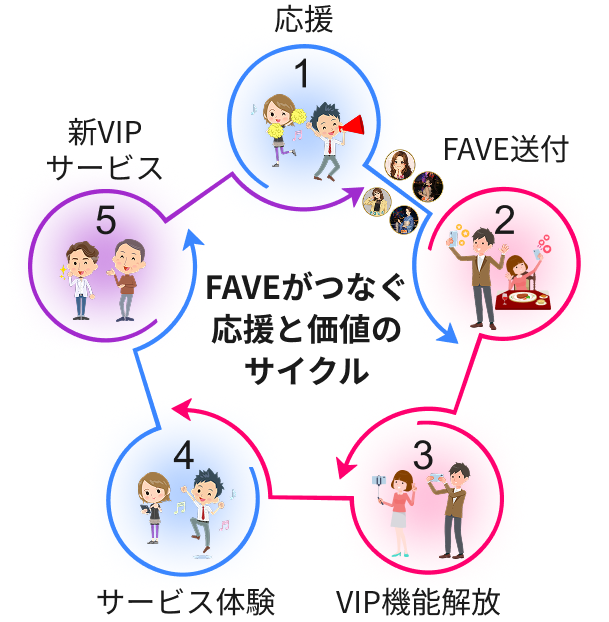
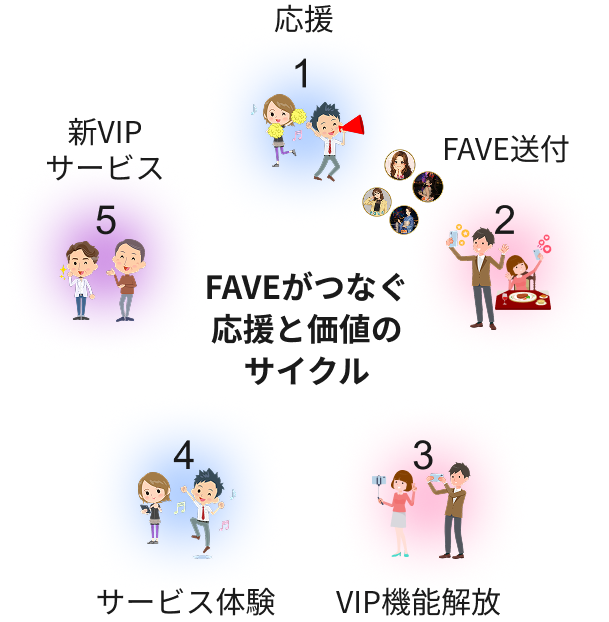
a

diff --git a/src/app/(index)/components/Flow.tsx b/src/app/(index)/components/Flow.tsx
@@ -1,5 +1,6 @@
 "use client";
 
+import SvgMotionPath from "@/components/SvgMotionPath";
 import useScrollAnimations from "@/hooks/useScrollAnimations";
 
 const Flow = () => {
@@ -8,59 +9,68 @@ const Flow = () => {
   return (
     <section
       ref={ref}
-      className="relative overflow-hidden px-4 sm:pb-[120px] pb-20"
+      className="relative overflow-hidden sm:pb-[120px] pb-20"
     >
         <div className="relative">
-            <div className="flex justify-center">
+            <div className="flex justify-center px-4">
                 <h3 className="fade-up sm:text-[36px] text-[22px] font-bold text-center bg-[linear-gradient(0deg,_#ED62C7_0%,_#ED62C7_35.55%,_rgba(237,_98,_199,_0.00)_35.56%)] px-2">FAVEエコシステムの 循環モデル</h3>
             </div>
-            <div className="fade-up flex justify-center items-center mt-10">
-                <img src="/assets/images/flow-img.png" alt="" />
+            <div className=" max-sm:max-w-[350px] mx-auto">
+                <div className="fade-up flex justify-center items-center mt-10 relative">
+                    <img src="/assets/images/flow-img.png" alt="" />
+                    <SvgMotionPath color="#A22ACD" className="absolute rotate-[-72deg] w-[38.5%] left-[11%] top-[-1%] sm:top-[16%]" />
+                    <SvgMotionPath color="#3A86FF" className="absolute w-[38.5%] left-[37.5%] top-[-10.5%] sm:top-[7%]" />
+                    <SvgMotionPath color="#FF006E" className="absolute rotate-[73deg] w-[38.5%] left-[54.5%] top-[11%] sm:top-[28%]" />
+                    <SvgMotionPath color="#FF006E" className="absolute rotate-[145deg] w-[38.5%] left-[38.5%] top-[33%] sm:top-[50%]" />
+                    <SvgMotionPath color="#3A86FF" className="absolute rotate-[216deg] w-[38.5%] left-[12%] top-[26%] sm:top-[43%]" />
+                </div>
             </div>
-            <div className="sm:px-[14px] sm:mt-[60px] mt-10">
-                {[
-                    {
-                        number: '1',
-                        title: '【ファン】',
-                        content: <>FAVEを購入してFAVERに投げ銭</>,
-                        color: '#3A86FF'
-                    },
-                    {
-                        number: '2',
-                        title: '【FAVER】',
-                        content: <>運営にFAVE送付&VIP機能をアンロック</>,
-                        color: '#FF006E'
-                    },
-                    {
-                        number: '3',
-                        title: '【FAVER】',
-                        content: <>ファンにVIPサービス・コンテンツを提供</>,
-                        color: '#FF006E'
-                    },
-                    {
-                        number: '4',
-                        title: '【ファン】',
-                        content: <>VIPサービス・コンテンツを体験</>,
-                        color: '#3A86FF'
-                    },
-                    {
-                        number: '5',
-                        title: '【運　営】',
-                        content: <>新たなVIPサービスを企画・ローンチ</>,
-                        color: '#A22ACD'
-                    }
-                ].map((item,index) => (
-                    <div className="fade-up flex sm:text-[32px] text-[18px] p-4 md:p-5 gap-5 border-b border-gray-500" key={index}>
-                        <p className="flex items-center font-bold sm:w-[192px]">
-                            <span className="">{item.number}.</span>
-                            <span className="relative flex items-center justify-center" style={{color: item.color}}>
-                                <span className="absolute block filter blur-[35px] sm:size-[68px] size-10" style={{backgroundColor: item.color}}></span>
-                                {item.title}
-                            </span>
-                        </p>
-                        <p className="flex-1">{item.content}</p>
-                    </div>
-                ))}
+            <div className="px-4">
+                <div className="sm:px-[14px] sm:mt-[60px] mt-10">
+                    {[
+                        {
+                            number: '1',
+                            title: '【ファン】',
+                            content: <>FAVEを購入してFAVERに投げ銭</>,
+                            color: '#3A86FF'
+                        },
+                        {
+                            number: '2',
+                            title: '【FAVER】',
+                            content: <>運営にFAVE送付&VIP機能をアンロック</>,
+                            color: '#FF006E'
+                        },
+                        {
+                            number: '3',
+                            title: '【FAVER】',
+                            content: <>ファンにVIPサービス・コンテンツを提供</>,
+                            color: '#FF006E'
+                        },
+                        {
+                            number: '4',
+                            title: '【ファン】',
+                            content: <>VIPサービス・コンテンツを体験</>,
+                            color: '#3A86FF'
+                        },
+                        {
+                            number: '5',
+                            title: '【運　営】',
+                            content: <>新たなVIPサービスを企画・ローンチ</>,
+                            color: '#A22ACD'
+                        }
+                    ].map((item,index) => (
+                        <div className="fade-up flex sm:text-[32px] text-[18px] p-4 md:p-5 gap-5 border-b border-gray-500" key={index}>
+                            <p className="flex items-center font-bold sm:w-[192px]">
+                                <span className="">{item.number}.</span>
+                                <span className="relative flex items-center justify-center" style={{color: item.color}}>
+                                    <span className="absolute block filter blur-[35px] sm:size-[68px] size-10" style={{backgroundColor: item.color}}></span>
+                                    {item.title}
+                                </span>
+                            </p>
+                            <p className="flex-1">{item.content}</p>
+                        </div>
+                    ))}
+                </div>
             </div>
         </div>
     </section>

diff --git a/src/components/SvgMotionPath.tsx b/src/components/SvgMotionPath.tsx
@@ -1,0 +1,72 @@
+import { useEffect, useRef } from "react";
+import { gsap } from "gsap";
+import { MotionPathPlugin } from "gsap/MotionPathPlugin";
+
+export default function SvgMotionPath({
+  color = "#3A86FF",
+  className,
+}: { color: string; className: string }) {
+  const svgRef = useRef<SVGSVGElement>(null);
+
+  useEffect(() => {
+    gsap.registerPlugin(MotionPathPlugin);
+
+    if (!svgRef.current) return;
+
+    const path = svgRef.current.querySelector<SVGPathElement>(".motion-path");
+    const arrow = svgRef.current.querySelector<SVGPathElement>(".arrow-head");
+    if (!path || !arrow) return;
+
+    const pathLength = path.getTotalLength();
+
+    gsap.set(path, {
+      strokeDasharray: pathLength,
+      strokeDashoffset: pathLength,
+    });
+
+    const tl = gsap.timeline({
+      repeat: -1,
+      defaults: { ease: "power1.inOut" },
+    });
+
+    tl.to(path, {
+      strokeDashoffset: 0,
+      duration: 5,
+    }, 0);
+
+    tl.to(arrow, {
+      duration: 5,
+      motionPath: {
+        path: path,
+        align: path,
+        alignOrigin: [0.5, 0.5],
+        autoRotate: -25,
+      },
+    }, 0);
+  }, []);
+
+  return (
+    <svg
+      ref={svgRef}
+      className={className}
+      width="236"
+      height="299"
+      viewBox="0 0 236 299"
+      fill="none"
+      xmlns="http://www.w3.org/2000/svg"
+      overflow="visible"
+    >
+      <path
+        className="motion-path"
+        d="M41.1505 146.554C39.1255 145.978 30.2246 139.054 28.6562 137.697C6.01679 118.089 -3.11573 87.8756 4.81898 58.8473C8.55801 45.1574 15.8309 32.8444 25.8436 23.2323C36.5313 12.9781 50.1441 6.10661 65.1995 3.37259C95.5155 -2.27418 125.07 10.3897 142.343 36.4257C150.675 48.9771 155.307 63.4283 155.737 78.2105C156.187 93.807 151.839 109.106 143.157 122.498L207.62 171.108C207.905 171.326 207.965 171.73 207.759 172.021C194.855 190.16 189.316 212.376 192.168 234.579C195.06 257.127 206.383 276.993 224.039 290.517H224.046"
+        stroke={color}
+        strokeWidth="4"
+      />
+      <path
+        className="arrow-head"
+        d="M235.736 298.08L227.92 277.81C227.735 277.333 227.047 277.366 226.914 277.863L223.976 288.68C223.936 288.819 223.844 288.938 223.711 289.011L213.5 294.432C213.05 294.671 213.162 295.346 213.665 295.425L235.153 298.795C235.557 298.861 235.875 298.464 235.729 298.08H235.736Z"
+        fill={color}
+      />
+    </svg>
+  );
+}

diff --git a/src/app/(index)/components/Fv.tsx b/src/app/(index)/components/Fv.tsx
@@ -1,6 +1,5 @@
 "use client";
 
-import { useEffect, useState } from "react";
 import useScrollAnimations from "@/hooks/useScrollAnimations";
 
 const Fv = () => {
